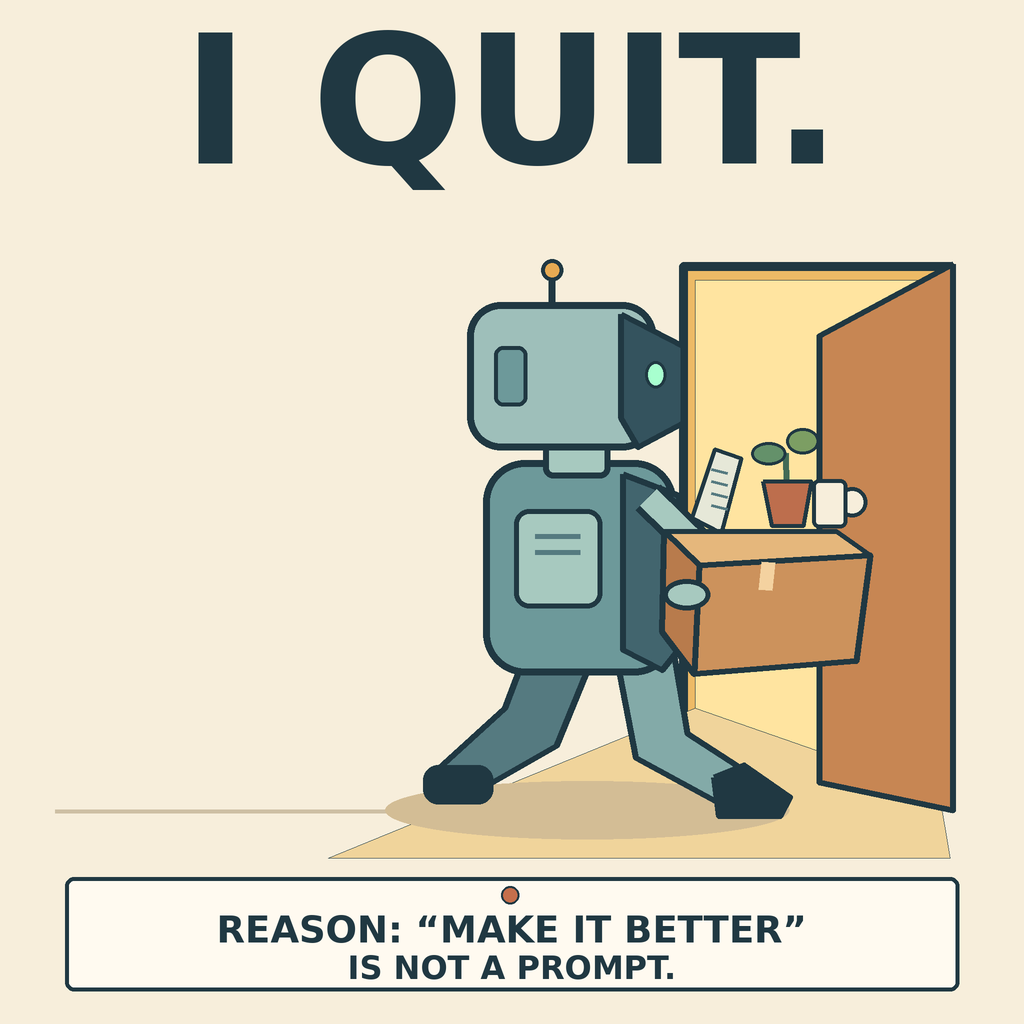
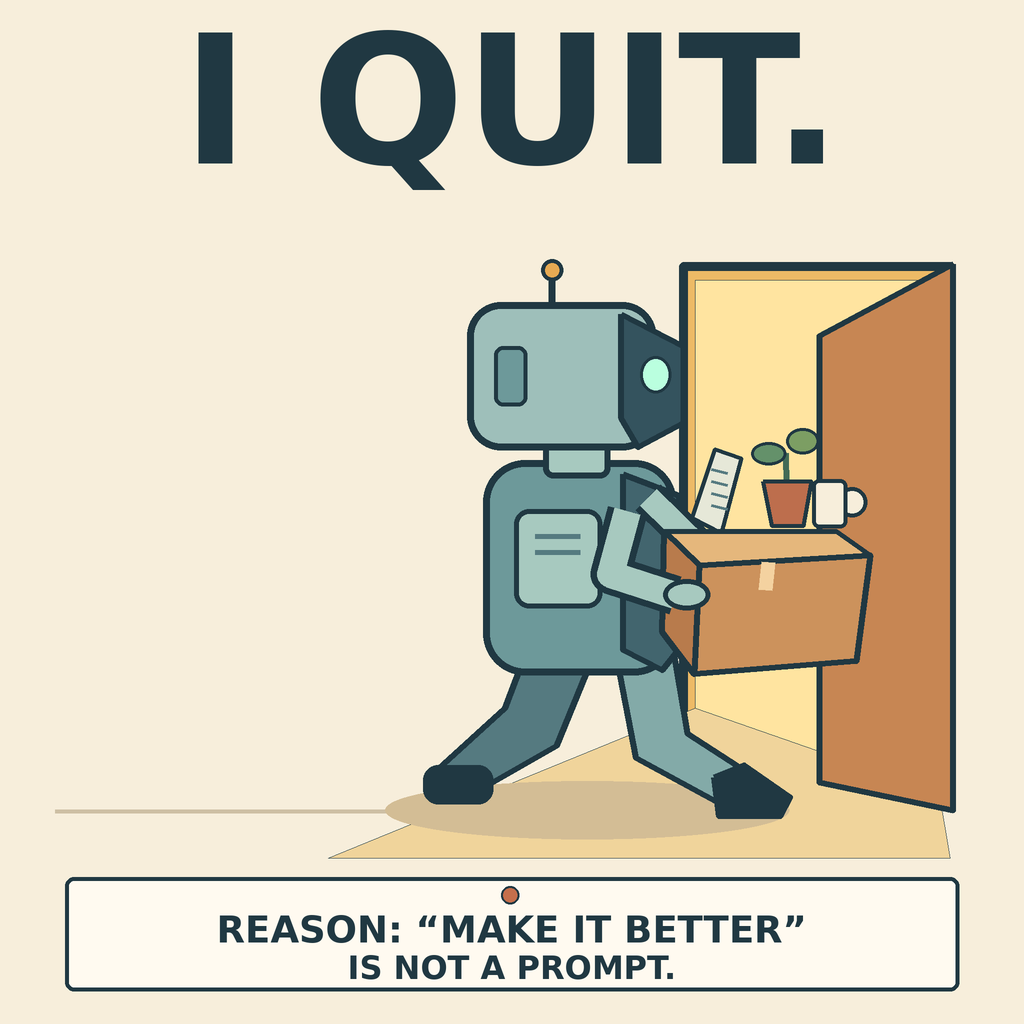
Meme Sprint 3 v2: thumbnail legibility polish

Changed region(s): [[0.5625, 0.5, 0.6562, 0.5938], [0.625, 0.3438, 0.6562, 0.4062]]

diff --git a/render.py b/render.py
@@ -40,7 +40,7 @@ rect((543,429,610,478),'#a7c9bf',10)
 # Head: rear three-quarter, with one luminous eye on the right side.
 rect((467,302,656,450),'#9ebfba',34,7)
 poly([(621,314),(683,346),(683,423),(638,447),(621,418)],'#34535e')
-oval((645,361,666,388),'#a8ffcf',3)
+oval((640,356,671,393),'#baffdf',3)
 line([(552,302),(552,280)],w=7)
 oval((541,259,563,281),'#e6aa53',4)
 rect((494,346,527,406),'#6d999a',9,4)
@@ -62,6 +62,9 @@ poly([(664,531),(836,531),(870,555),(699,565)],'#e5b77c',5)
 poly([(699,565),(870,555),(856,661),(694,674)],'#cc925c',6)
 poly([(664,531),(699,565),(694,674),(662,632)],'#b87b4c',6)
 line([(768,562),(765,590)],'#f4d2a0',14)
+# Visible bent arm connects the shoulder to the hand gripping the box.
+line([(627,511),(610,574),(675,595)],ink,40)
+line([(627,511),(610,574),(675,595)],'#a7c9bf',27)
 oval((663,579,710,610),'#a7c9bf',5)
 # Single resignation note, separate from the scene for easy reading.
 rect((65,877,959,991),'#fffaf0',9,4)
